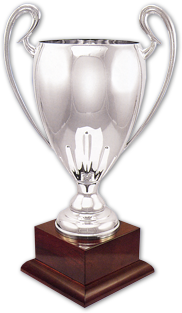
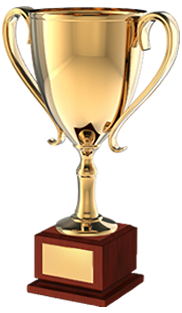
layout record sistemato

diff --git a/js/game.js b/js/game.js
@@ -1321,11 +1321,13 @@
        this.scoreTextCiliege = game.add.text(90, 161, '0', { fontSize: '200 px', fill: '#000' });      //stampo lo score attuale
        this.scoreTextCiliege.fixedToCamera = true;
 
+       var  element=game.add.image(10,game.world.height -80,'coppa_small');
        if (localStorage.getItem("Record") != null) {
-           this.scoreRecord = game.add.text(10, game.world.height - this.solidH / 2, 'Record: ' + localStorage.getItem("Record"), { fontSize: '200 px', fill: '#000' });
+          this.scoreRecord = game.add.text(70, game.world.height - this.solidH / 2-13, 'RECORD: ' + localStorage.getItem("Record"), { fontSize: '200 px', fill: '#000' });
        } else {
-           this.scoreRecord = game.add.text(10, game.world.height - this.solidH / 2, 'Record: ' + '0', { fontSize: '200 px', fill: '#000' });
+          this.scoreRecord = game.add.text(70, game.world.height - this.solidH / 2-13, 'RECORD: ' + '0', { fontSize: '200 px', fill: '#000' });
        }
+       element.fixedToCamera=true;
        this.scoreRecord.fixedToCamera = true;
       /*
        text[0]="PINI";

diff --git a/js/menu.js b/js/menu.js
@@ -93,6 +93,7 @@ MenuState.prototype = {
       game.load.image('bananax5', 'assets/bananax5.png');
       game.load.image('ciliegex2', 'assets/ciliegex2.png');
       game.load.image('ciliegex5', 'assets/ciliegex5.png');
+      game.load.image('coppa_small', 'assets/coppa_small.png');
 
       game.load.image('exitgame', 'assets/exitgame.png');
       game.load.spritesheet('playstop', 'assets/stop.png',60,60);
